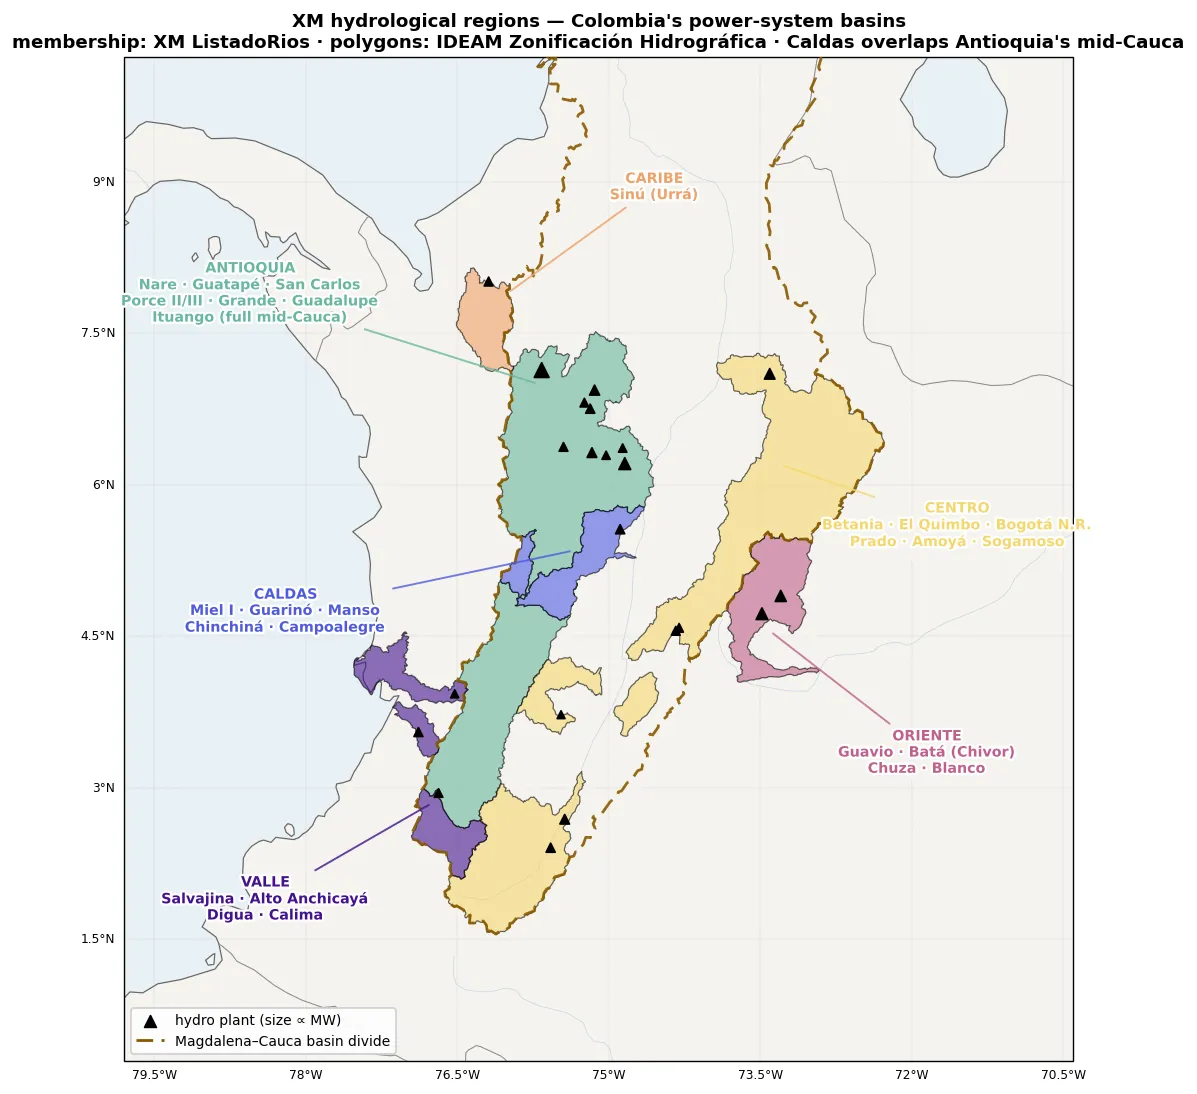
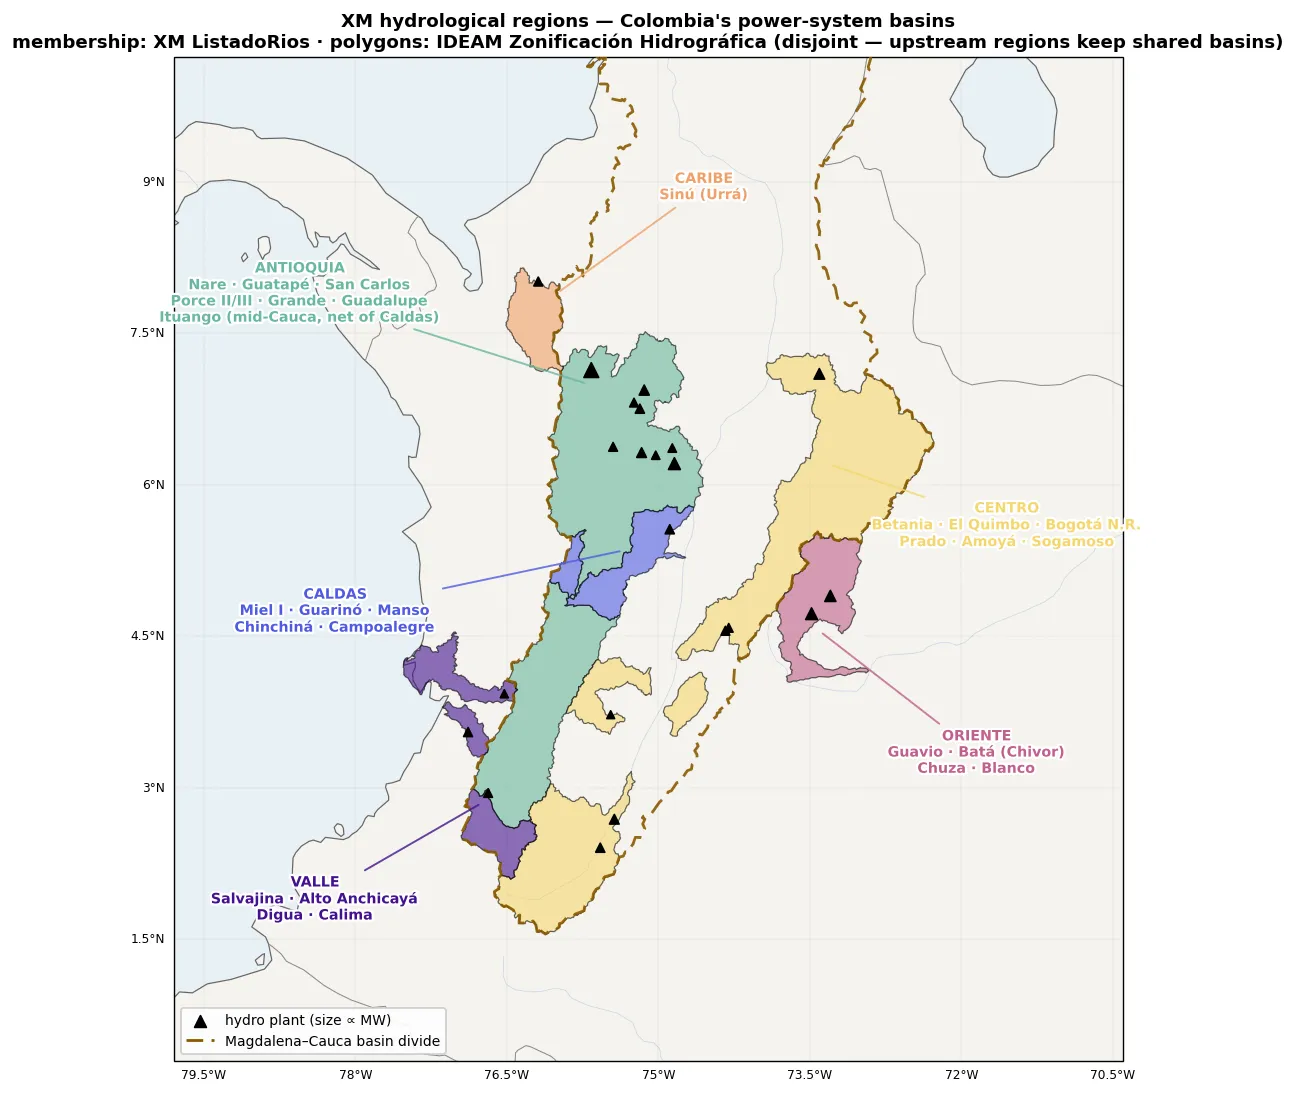
Colombia hydro: map captions reflect disjoint regions

diff --git a/colombia_hydro/index.html b/colombia_hydro/index.html
@@ -68,9 +68,9 @@ daily. Rain here today is turbine water in the coming weeks.</p>
 <div class="chips" id="chips"></div>
 
 <div class="cols">
-  <div class="panel"><img src="xm_regions_map.webp?v=202607231055"
+  <div class="panel"><img src="xm_regions_map.webp?v=202607231058"
     alt="Map of XM hydrological regions built from IDEAM subzonas"></div>
-  <div class="panel"><img src="xm_regions_departments.webp?v=202607231055"
+  <div class="panel"><img src="xm_regions_departments.webp?v=202607231058"
     alt="Department-scale display view of the XM regions with true basins outlined">
     <p class="note" style="margin:8px 4px 2px">Two views of the same regions: the
     <b>contributing basins</b> (left — used for all rainfall averaging on this page) and the

diff --git a/scripts/sst/render_hydro_maps.py b/scripts/sst/render_hydro_maps.py
@@ -45,7 +45,7 @@ XM_DEPTS = {
     "VALLE": ["Valle del Cauca"],
 }
 RIVERS = {
- "ANTIOQUIA": "Nare · Guatapé · San Carlos\nPorce II/III · Grande · Guadalupe\nItuango (full mid-Cauca)",
+ "ANTIOQUIA": "Nare · Guatapé · San Carlos\nPorce II/III · Grande · Guadalupe\nItuango (mid-Cauca, net of Caldas)",
  "CALDAS": "Miel I · Guarinó · Manso\nChinchiná · Campoalegre",
  "CARIBE": "Sinú (Urrá)",
  "CENTRO": "Betania · El Quimbo · Bogotá N.R.\nPrado · Amoyá · Sogamoso",
@@ -99,8 +99,8 @@ def basins_map(regions):
     gl.top_labels = gl.right_labels = False
     gl.xlabel_style = gl.ylabel_style = {"size": 7}
     ax.set_title("XM hydrological regions — Colombia's power-system basins\n"
-                 "membership: XM ListadoRios · polygons: IDEAM Zonificación Hidrográfica · "
-                 "Caldas overlaps Antioquia's mid-Cauca",
+                 "membership: XM ListadoRios · polygons: IDEAM Zonificación Hidrográfica "
+                 "(disjoint — upstream regions keep shared basins)",
                  fontsize=10.5, fontweight="bold")
     ax.legend(loc="lower left", fontsize=8, framealpha=0.9)
     fig.savefig(OUTDIR / "xm_regions_map.webp", dpi=125, bbox_inches="tight",
